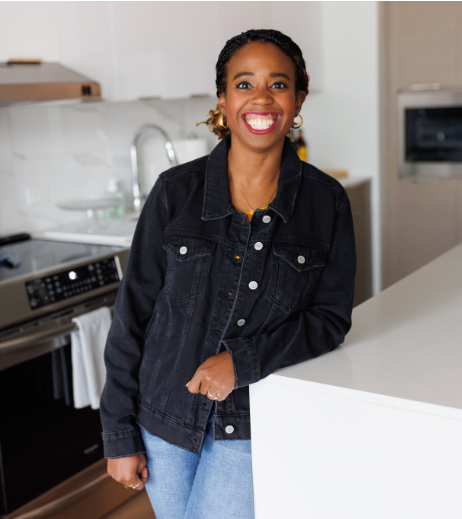
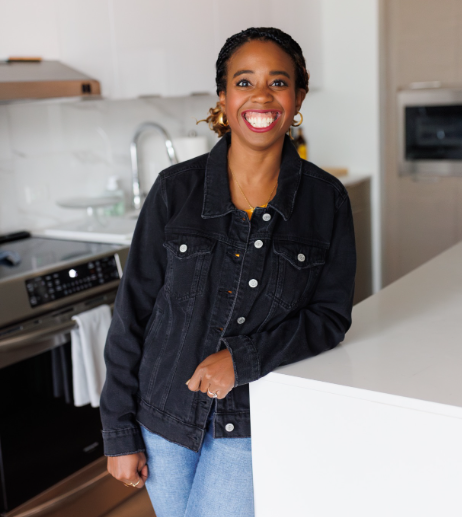
why-i-build polished

diff --git a/angularFrontend/src/app/components/why-i-build/why-i-build.scss b/angularFrontend/src/app/components/why-i-build/why-i-build.scss
@@ -1,4 +1,7 @@
 :host {
+    display: flex;
+    align-items: center;
+    justify-content: center;
     width: 100vw;
     min-height: 100vh;
     height: fit-content;
@@ -9,7 +12,7 @@
         flex-direction: row;
         min-height: 90vh;
         height: fit-content;
-        width: 90vw;
+        width: 80vw;
         padding: 5vh 0 5vh 0;
 
         .left-content, .right-content {
@@ -25,15 +28,13 @@
             flex-direction: column;
             align-items: center;
             justify-content: center;
-            width: 60%;
+            width: 50%;
 
             .copy-container {
                 display: flex;
                 flex-direction: column;
-                //align-items: center;
-                //justify-content: center;
                 height: 95%;
-                width: 78%;
+                width: 100%;
 
                 .copy-wrapper {
                     height: 90%;
@@ -44,7 +45,13 @@
         }
 
         .right-content {
-            width: 40%;
+            width: 50%;
+
+            img {
+                border-radius: 23px;
+                height: 68%;
+                width: 85%;
+            }
         }
     }
 }

diff --git a/angularFrontend/src/app/components/why-i-build/why-i-build.html b/angularFrontend/src/app/components/why-i-build/why-i-build.html
@@ -1,9 +1,9 @@
 <div class="why-container">
     <div class="left-content">
-            <h1 class="heading">
-                Why I built Bridge the Gap Spanish
-            </h1>
         <div class="copy-container">
+            <h1 class="heading">
+                Why I built BTG Spanish
+            </h1>
             <div class="copy-wrapper">
                 <p>I took Spanish throughout elementary school, high school, and even college. But when I found myself living with a host family in the middle of a pueblo in Oaxaca, Mexico — I could not communicate at all.</p>
                 <p>Thank goodness I was there to attend an immersive Spanish school, where I learned to communicate by practicing in real time with native speakers every single day for six months.</p>
@@ -17,6 +17,6 @@
         </div>
     </div>
     <div class="right-content">
-        <img class="then-pic" src="images/ke_and_kids.png">
+        <img class="then-pic" src="images/ke_in_kitchen.png">
     </div>
 </div>

diff --git a/angularFrontend/src/app/components/body/body.component.ts b/angularFrontend/src/app/components/body/body.component.ts
@@ -17,7 +17,7 @@ import { WhoForComponent } from '@components/who-for/who-for.component';
 import { ExpectationsComponent } from '@components/expectations/expectations.component';
 import { ChallengeResult } from '@components/challenge-result/challenge-result';
 import { PricingComponent } from '@components/pricing/pricing.component';
-import { WhatToExpect } from '@components/what-to-expect/what-to-expect';
+import { WhyIBuild } from '@components/why-i-build/why-i-build';
 import { WhatYouGet } from '@components/what-you-get/what-you-get';
 
 @Component({
@@ -41,7 +41,7 @@ import { WhatYouGet } from '@components/what-you-get/what-you-get';
     ExpectationsComponent,
     ChallengeResult,
     PricingComponent,
-    WhatToExpect,
+    WhyIBuild,
     WhatYouGet
   ],
   templateUrl: './body.component.html',

diff --git a/angularFrontend/src/app/components/why-i-build/why-i-build.ts b/angularFrontend/src/app/components/why-i-build/why-i-build.ts
@@ -1,0 +1,9 @@
+import { Component } from '@angular/core';
+
+@Component({
+  selector: 'app-why-i-build',
+  imports: [],
+  templateUrl: './why-i-build.html',
+  styleUrl: './why-i-build.scss',
+})
+export class WhyIBuild {}

diff --git a/angularFrontend/src/app/components/body/body.component.html b/angularFrontend/src/app/components/body/body.component.html
@@ -18,7 +18,7 @@
 
 <app-challenge-result></app-challenge-result>
 
-<app-what-to-expect></app-what-to-expect>
+<app-why-i-build></app-why-i-build>
 
 <app-what-you-get></app-what-you-get>
 
